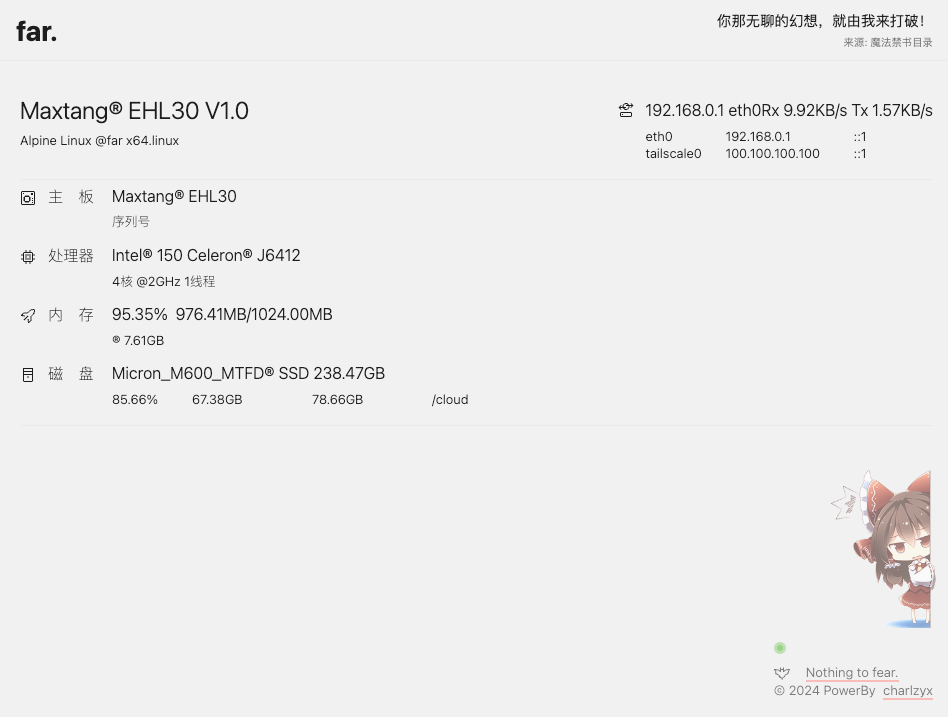
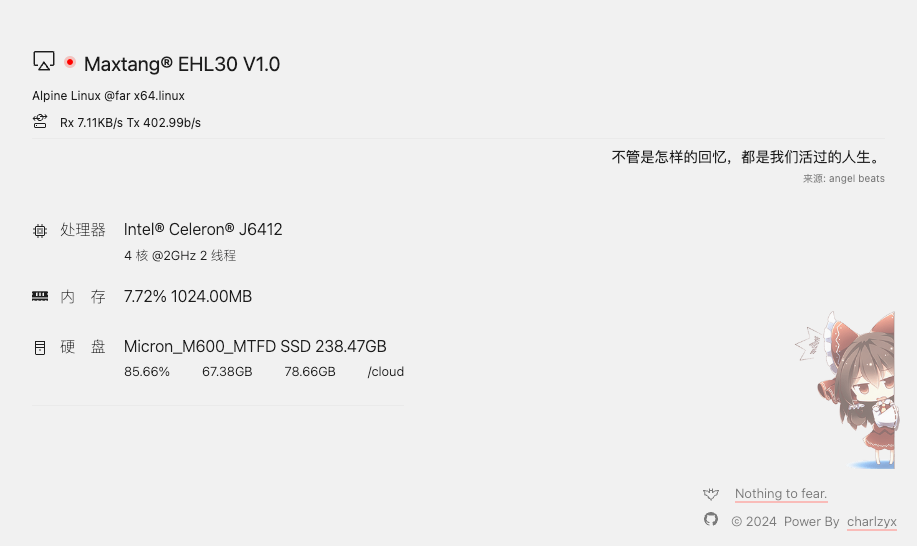
feat: 🎸 update readme

diff --git a/src/components/SystemInfo.tsx b/src/components/SystemInfo.tsx
@@ -48,7 +48,8 @@ export const BaseInfo = (props: { children: React.ReactNode }) => {
         <div className="flex text-5 mb-2 mt-3 lh-8">
           <div className="i-carbon:airplay text-6 mr-2" />
           <div className="flex mr-2 mt-2">{props.children}</div>
-          {system?.manufacturer}&reg; {system?.model} {system?.version}
+          {system?.manufacturer || "AMD"}&reg; {system?.model}{" "}
+          {system?.version || "YES!"}
         </div>
         <div className="text-3">
           {upper(os?.distro)} @{os?.hostname} {os?.arch}.{os?.platform}

diff --git a/server/app.ts b/server/app.ts
@@ -9,6 +9,7 @@ $.throws(false);
 const cacheBlack: Record<string, boolean> = {
   networkStats: true,
   fsSize: true,
+  mem: true,
 };
 
 const cached: Record<string, any> = {};

diff --git a/README.md b/README.md
@@ -1,3 +1,17 @@
 # far.
 
+## .install
+
+```bash
+mkdir -p /opt/nv
+cd /opt/nv
+wget https://github.com/charlzyx/nv/releases/download/master/nv.tar.gz -O nv.tar.gz
+rm -rf dist server package.json
+tar -xvf nv.tar.gz
+bun i --production
+service nv restart
+```
+
+## .preview
+
 ![preview](./preview.png)
